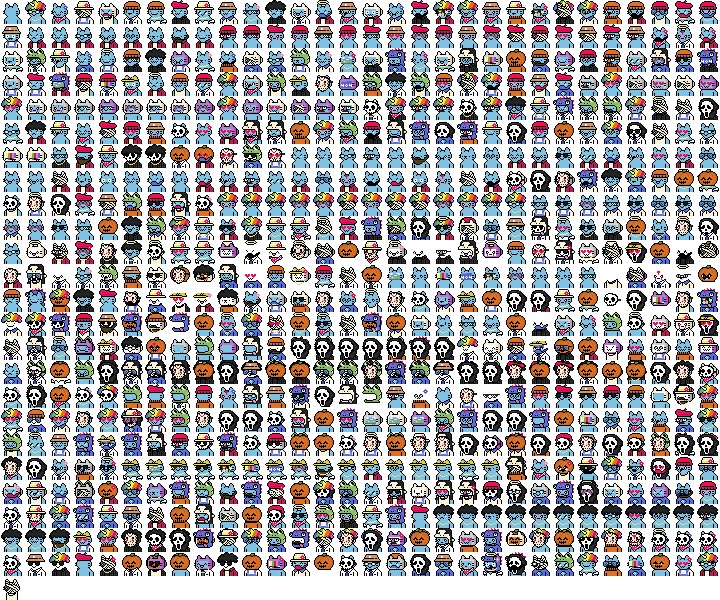
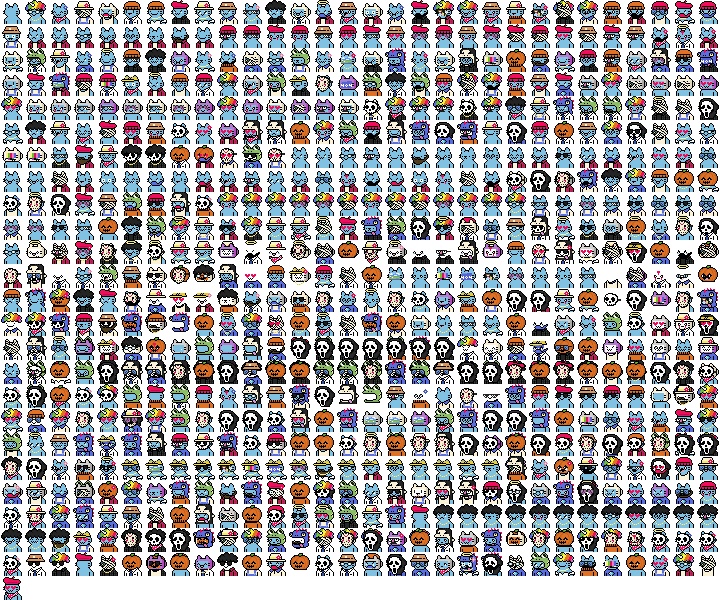
up

Changed region(s): [[0.3667, 0.9, 1.0, 0.96], [0.0, 0.96, 0.0306, 1.0]]

diff --git a/sandbox/composite_diycoolcats.rb b/sandbox/composite_diycoolcats.rb
@@ -8,36 +8,34 @@ max = 721
 
 ###
 #  start processing...
-recs = read_csv( "./diybirdies/mint.csv" )
+recs = read_csv( "./diycoolcats/mint.csv" )
 puts "   #{recs.size} record(s)"
 
 # cut-down to max. limit
-# recs = recs[0, max]
-# puts "   #{recs.size} record(s)"
+recs = recs[0, max]
+puts "   #{recs.size} record(s)"
 
 
-diybirdies = Ordgen.read( "./diybirdies/spritesheet.png",
+diycoolcats = Ordgen.read( "./diycoolcats/spritesheet.png",
                              width:  24,
                              height: 24 )
 
-
 ## 30 cols x 25 rows = 750
-composite = ImageComposite.new( 30, 25, width: diybirdies.width,
-                                        height: diybirdies.height )
+composite = ImageComposite.new( 30,25, width: diycoolcats.width,
+                                       height: diycoolcats.height )
 
 recs.each_with_index do |rec,i|
-  g = diybirdies._parse( rec['g'] )
+  g = diycoolcats._parse( rec['g'] )
   puts "==> no. #{i}   g: #{rec['g']} - #{g.inspect}"
 
-  composite << diybirdies.generate( *g )
+  composite << diycoolcats.generate( *g )
 end
 
 
-outname =  "./tmp2/diybirdies_max#{max}"
+outname =  "./tmp2/diycoolcats_max#{max}"
 
 composite.save( "#{outname}.png" )
 composite.zoom(4).save( "#{outname}@4x.png" )
-
 
 
 puts "bye"
